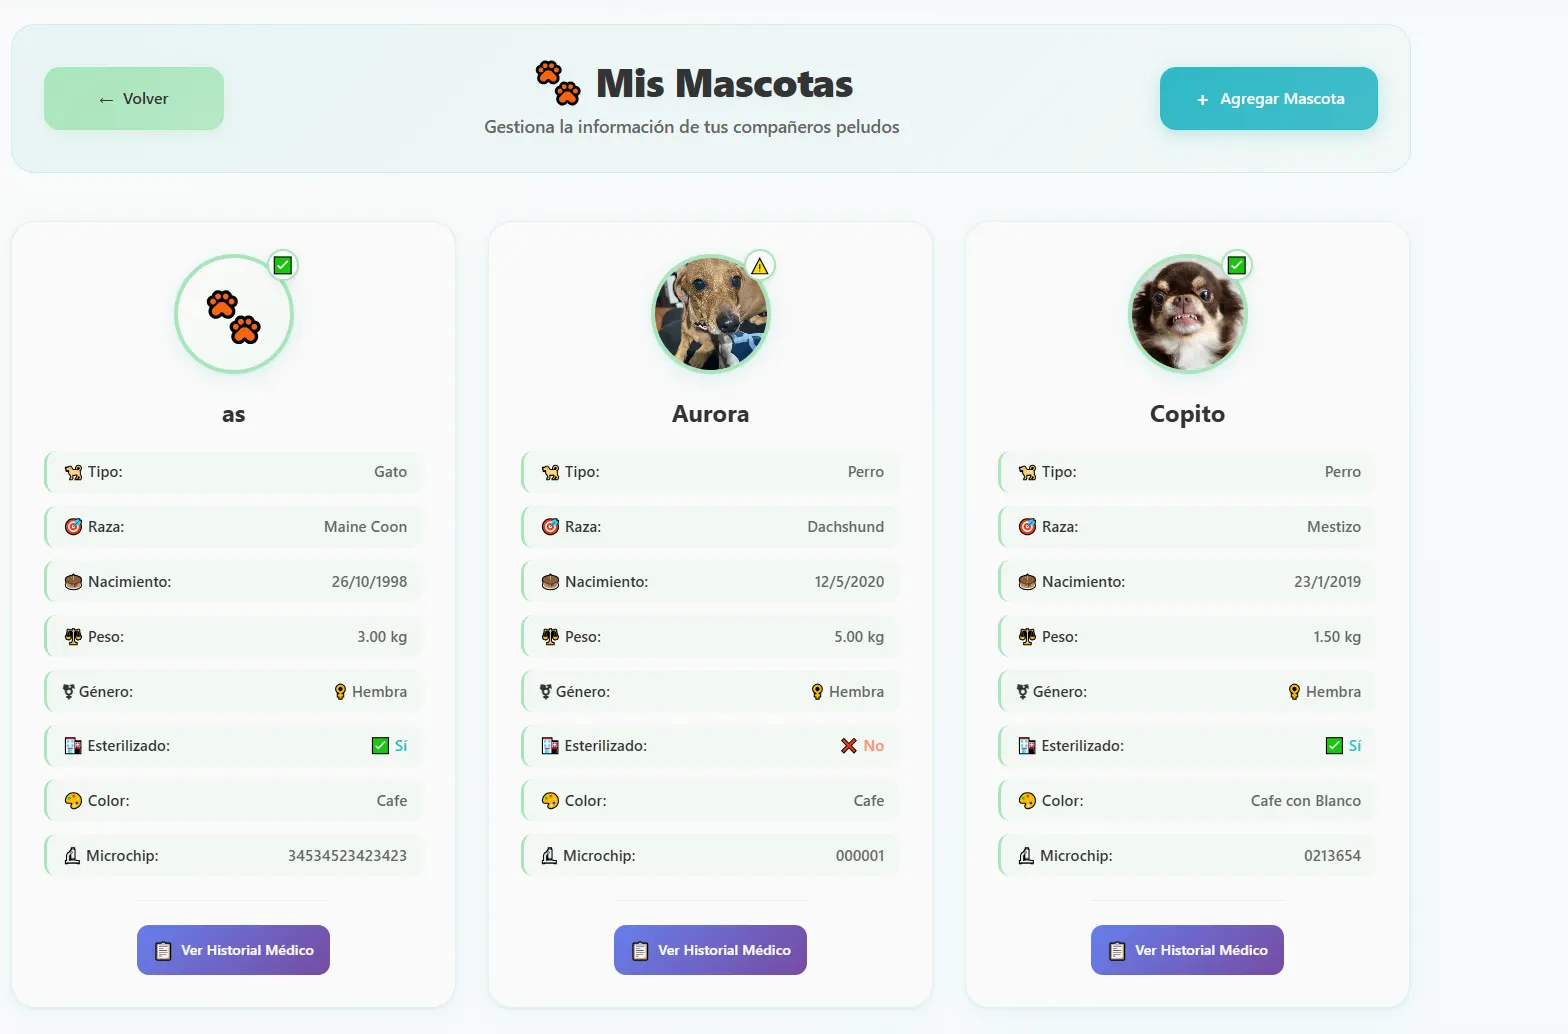
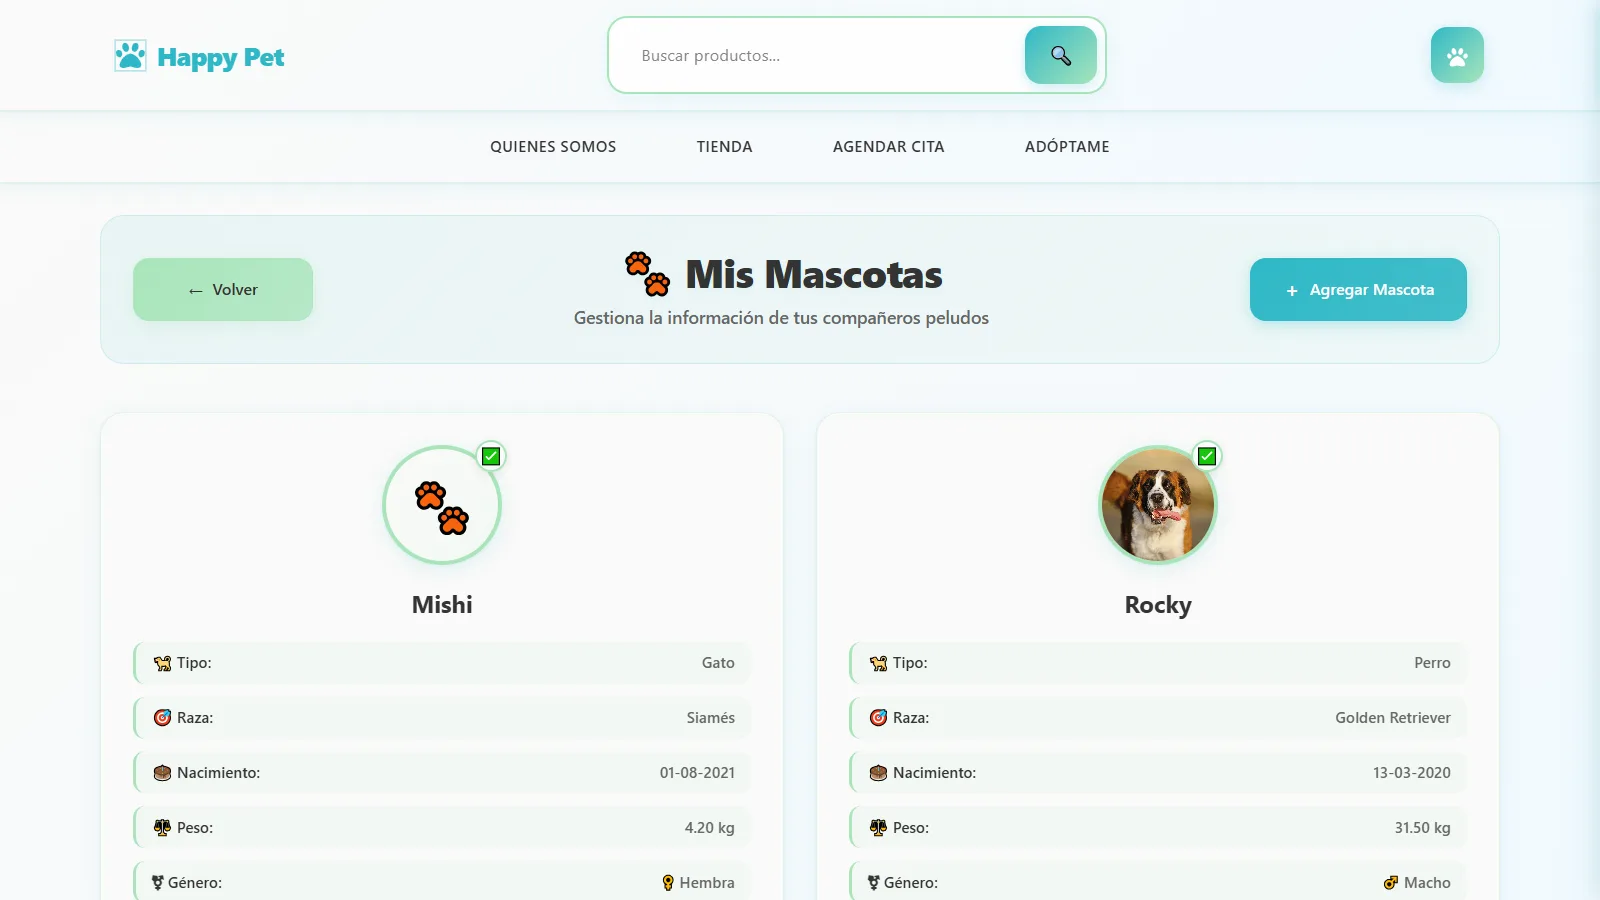
demo en vivo y cuentas de prueba de Happy Pet

diff --git a/src/data/portfolio.js b/src/data/portfolio.js
@@ -54,6 +54,34 @@ const sismos = '/assets/images/projects/sismos-chile';
 
 export const projects = [
   {
+    id: 'happy-pet',
+    title: 'Happy Pet',
+    kind: 'Proyecto de título',
+    summary: 'Sistema de gestión veterinaria web y móvil.',
+    description:
+      'Plataforma para una veterinaria con portal para dueños y panel para veterinarios: agenda de citas, fichas clínicas electrónicas, e-commerce, adopción de mascotas y videoconsultas. Para publicarla reforcé la seguridad del backend (contraseñas con bcrypt, sesiones con JWT y permisos por rol) y la desplegué en Vercel con MySQL en Aiven.',
+    tech: ['React', 'TypeScript', 'Node.js', 'Express', 'MySQL', 'JWT', 'Ionic', 'Angular', 'Vercel'],
+    demo: 'https://proyecto-titulo-wya2.vercel.app',
+    github: 'https://github.com/JS-Ranker/Proyecto_Titulo',
+    demoAccounts: {
+      password: 'demo1234',
+      accounts: [
+        { role: 'Dueño', login: 'RUT 11111111-1' },
+        { role: 'Veterinario', login: 'camila.rojas@happypet.cl' },
+      ],
+    },
+    images: [
+      { src: `${vet}/home.webp`, alt: 'Página de inicio de Happy Pet', width: 1600, height: 762 },
+      { src: `${vet}/mis-mascotas.webp`, alt: 'Panel “Mis mascotas” del dueño', width: 1600, height: 900 },
+      { src: `${vet}/panel-veterinario.webp`, alt: 'Panel de control del veterinario', width: 1600, height: 900 },
+      { src: `${vet}/tienda.webp`, alt: 'Tienda en línea de productos para mascotas', width: 1490, height: 1170 },
+      { src: `${vet}/adoptame.webp`, alt: 'Listado de mascotas en adopción', width: 1407, height: 786 },
+      { src: `${vet}/adoptame-detalle.webp`, alt: 'Detalle de una mascota en adopción', width: 1363, height: 1052 },
+      { src: `${vet}/login.webp`, alt: 'Pantalla de inicio de sesión', width: 1045, height: 856 },
+      { src: `${vet}/quienes-somos.webp`, alt: 'Página “Quiénes somos”', width: 1444, height: 1286 },
+    ],
+  },
+  {
     id: 'sismos-chile',
     title: 'Sismos Chile',
     kind: 'Proyecto personal',
@@ -67,25 +95,6 @@ export const projects = [
       { src: `${sismos}/general.webp`, alt: 'Mapa de Chile con los sismos de la última semana y la lista del último sismo registrado', width: 1600, height: 900 },
       { src: `${sismos}/seleccion.webp`, alt: 'Sismo seleccionado en la lista, con su detalle abierto en el mapa', width: 1600, height: 900 },
       { src: `${sismos}/movil.webp`, alt: 'Vista de Sismos Chile en un celular', width: 1600, height: 900 },
-    ],
-  },
-  {
-    id: 'happy-pet',
-    title: 'Happy Pet',
-    kind: 'Proyecto de título',
-    summary: 'Sistema de gestión veterinaria web y móvil.',
-    description:
-      'Plataforma para una veterinaria con e-commerce integrado, agenda de citas, videollamadas en vivo, notificaciones push, adopción de mascotas y fichas clínicas electrónicas.',
-    tech: ['React', 'Vite', 'Node.js', 'Express', 'Ionic', 'Angular'],
-    github: 'https://github.com/JS-Ranker/Proyecto_Titulo',
-    images: [
-      { src: `${vet}/home.webp`, alt: 'Página de inicio de Happy Pet', width: 1600, height: 762 },
-      { src: `${vet}/tienda.webp`, alt: 'Tienda en línea de productos para mascotas', width: 1490, height: 1170 },
-      { src: `${vet}/adoptame.webp`, alt: 'Listado de mascotas en adopción', width: 1407, height: 786 },
-      { src: `${vet}/adoptame-detalle.webp`, alt: 'Detalle de una mascota en adopción', width: 1363, height: 1052 },
-      { src: `${vet}/mis-mascotas.webp`, alt: 'Panel “Mis mascotas” del usuario', width: 1568, height: 1034 },
-      { src: `${vet}/login.webp`, alt: 'Pantalla de inicio de sesión', width: 1045, height: 856 },
-      { src: `${vet}/quienes-somos.webp`, alt: 'Página “Quiénes somos”', width: 1444, height: 1286 },
     ],
   },
   {

diff --git a/src/sections/Projects.jsx b/src/sections/Projects.jsx
@@ -73,6 +73,23 @@ const Projects = () => (
                   <li key={tech} className="tag">{tech}</li>
                 ))}
               </ul>
+              {project.demoAccounts && (
+                <div className="demo-accounts">
+                  <p className="demo-accounts-title">Cuentas de prueba para la demo</p>
+                  <dl>
+                    {project.demoAccounts.accounts.map((account) => (
+                      <div key={account.role}>
+                        <dt>{account.role}</dt>
+                        <dd>{account.login}</dd>
+                      </div>
+                    ))}
+                    <div>
+                      <dt>Contraseña</dt>
+                      <dd>{project.demoAccounts.password}</dd>
+                    </div>
+                  </dl>
+                </div>
+              )}
               <div className="project-links">
                 {project.demo && (
                   <a className="text-link project-link" href={project.demo} target="_blank" rel="noopener noreferrer">

diff --git a/src/sections/Projects.css b/src/sections/Projects.css
@@ -107,6 +107,44 @@
   margin-top: var(--space-5);
 }
 
+.demo-accounts {
+  margin-top: var(--space-5);
+  max-width: 62ch;
+  padding: var(--space-3) var(--space-4);
+  border: 1px solid var(--border);
+  border-radius: var(--radius-sm);
+  background: var(--surface-2);
+}
+
+.demo-accounts-title {
+  font-size: var(--step--1);
+  font-weight: 600;
+}
+
+.demo-accounts dl {
+  display: grid;
+  gap: var(--space-1);
+  margin: var(--space-2) 0 0;
+  font-size: var(--step--1);
+}
+
+.demo-accounts dl > div {
+  display: flex;
+  flex-wrap: wrap;
+  gap: 0 var(--space-2);
+}
+
+.demo-accounts dt {
+  min-width: 7rem;
+  color: var(--text-muted);
+}
+
+.demo-accounts dd {
+  margin: 0;
+  font-family: var(--font-mono);
+  overflow-wrap: anywhere;
+}
+
 .project-links {
   display: flex;
   flex-wrap: wrap;
